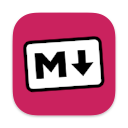
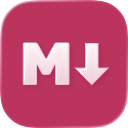
Version 1.7 🎉

diff --git a/source/Markdown Clips.novaextension/CHANGELOG.md b/source/Markdown Clips.novaextension/CHANGELOG.md
@@ -1,3 +1,25 @@
+## Version 1.7
+### 🎁 What's New?
+#### Shields.io Badges (Labels and Social)
+Markdown Clips brings some of the Shields.io magic to Nova, with 13 ready to use badges for labels and social networking. 
+
+Select which badge you'd like from the Clips sidebar or see them automatically suggested as you type. Each of the badges have placeholders for adding your own text, URLs, and for customising colours and badge styles. 
+
+**Examples:**
+
+![Label example](https://img.shields.io/badge/How_cool-is_this-green?style=flat)
+
+![Crowdfunding example](https://img.shields.io/badge/Crowdfund_me-yellow?style=flat&logo=buymeacoffee&logoColor=black&labelColor=white) 
+
+[![YouTube Video Likes example](https://img.shields.io/youtube/likes/dQw4w9WgXcQ?style=for-the-badge)](https://www.youtube.com/watch?v=dQw4w9WgXcQ)
+
+You can review the [Shields.io](https://shields.io/badges) documentation to learn more, and to support their project. 
+
+#### An icon refresh
+The icon for Markdown Clips has been updated with a Liquid Glass vibe.
+
+
+
 ## Version 1.6
 ### 🎁 What's New?
 #### GitHub Alerts (GitHub Flavoured Markdown)

diff --git a/README.md b/README.md
@@ -4,9 +4,9 @@
 </h3>
 
 <p align="center">
-	<a href="https://seanosullivan.co.uk/projects/nova-markdownclips"><img src="https://img.shields.io/badge/Version-1.6-674396?style=for-the-badge&labelColor=2e3144"></a>
+	<a href="https://seanosullivan.co.uk/projects/nova-markdownclips"><img src="https://img.shields.io/badge/Version-1.7-674396?style=for-the-badge&labelColor=2e3144"></a>
 	<a href="https://www.buymeacoffee.com/seanosullivanuk"><img src="https://img.shields.io/badge/Buy_Me_A_Coffee-support-efef51?style=for-the-badge&labelColor=2e3144"></a>
-	<img src="https://img.shields.io/badge/Installs-4%2C200%2B-6ebf56?style=for-the-badge&labelColor=2e3144">
+	<img src="https://img.shields.io/badge/Installs-5%2C100%2B-6ebf56?style=for-the-badge&labelColor=2e3144">
 </p>
 
 ---

diff --git a/source/Markdown Clips.novaextension/README.md b/source/Markdown Clips.novaextension/README.md
@@ -4,9 +4,9 @@
 </h3>
 
 <p align="center">
-	<a href="https://seanosullivan.co.uk/projects/nova-markdownclips"><img src="https://img.shields.io/badge/Version-1.6-674396?style=for-the-badge&labelColor=2e3144"></a>
+	<a href="https://seanosullivan.co.uk/projects/nova-markdownclips"><img src="https://img.shields.io/badge/Version-1.7-674396?style=for-the-badge&labelColor=2e3144"></a>
 	<a href="https://www.buymeacoffee.com/seanosullivanuk"><img src="https://img.shields.io/badge/Buy_Me_A_Coffee-support-efef51?style=for-the-badge&labelColor=2e3144"></a>
-	<img src="https://img.shields.io/badge/Installs-4%2C200%2B-6ebf56?style=for-the-badge&labelColor=2e3144">
+	<img src="https://img.shields.io/badge/Installs-5%2C100%2B-6ebf56?style=for-the-badge&labelColor=2e3144">
 </p>
 
 ---
